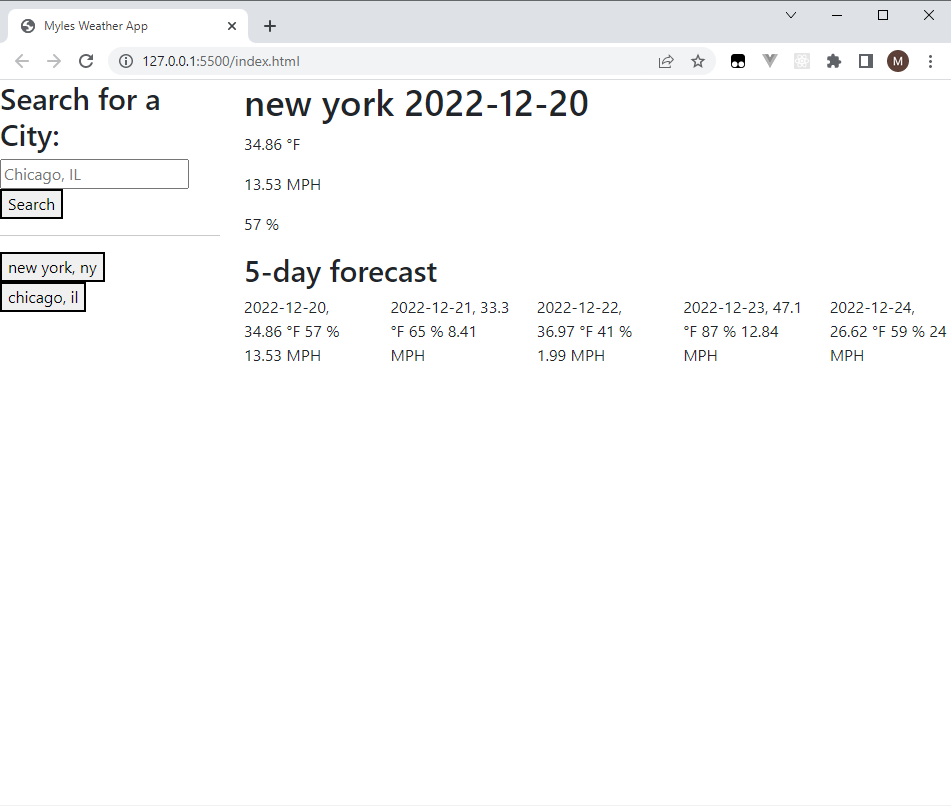
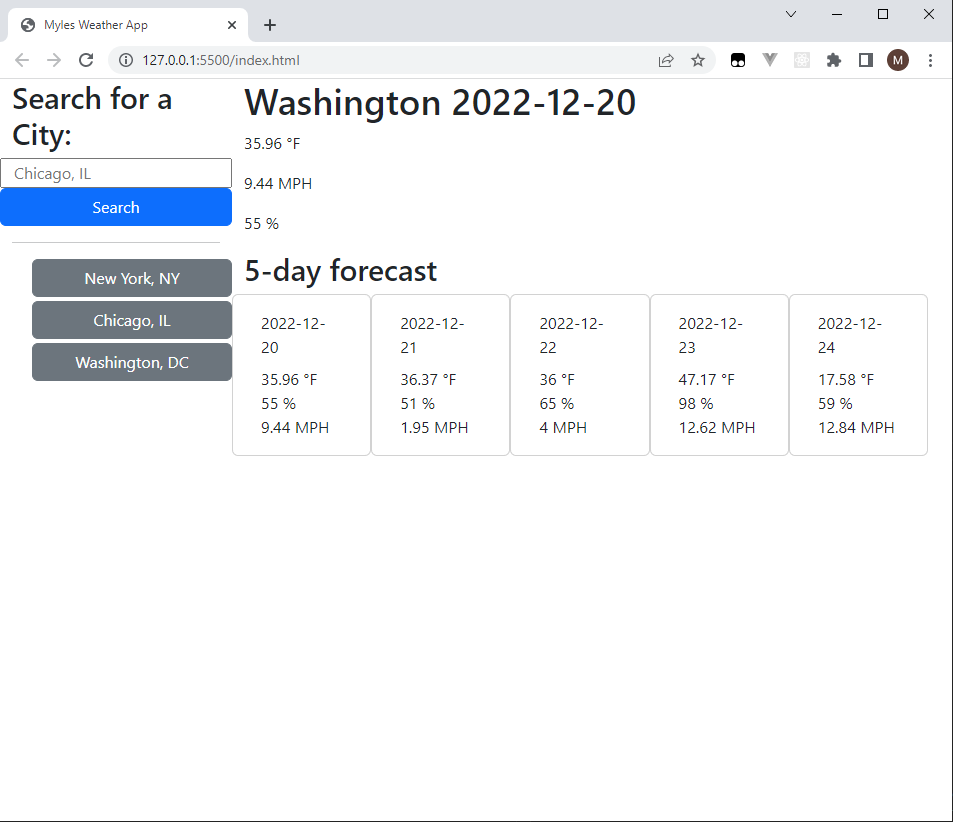
styling tweaks, updated screenshot

diff --git a/index.html b/index.html
@@ -20,7 +20,7 @@
       crossorigin="anonymous"></script>
     <script defer src="./assets/script.js"></script>
   </head>
-  <body class="container row">
+  <body class="container-fluid row">
     <aside class="col-3">
       <div class="row">
         <h2>Search for a City:</h2>
